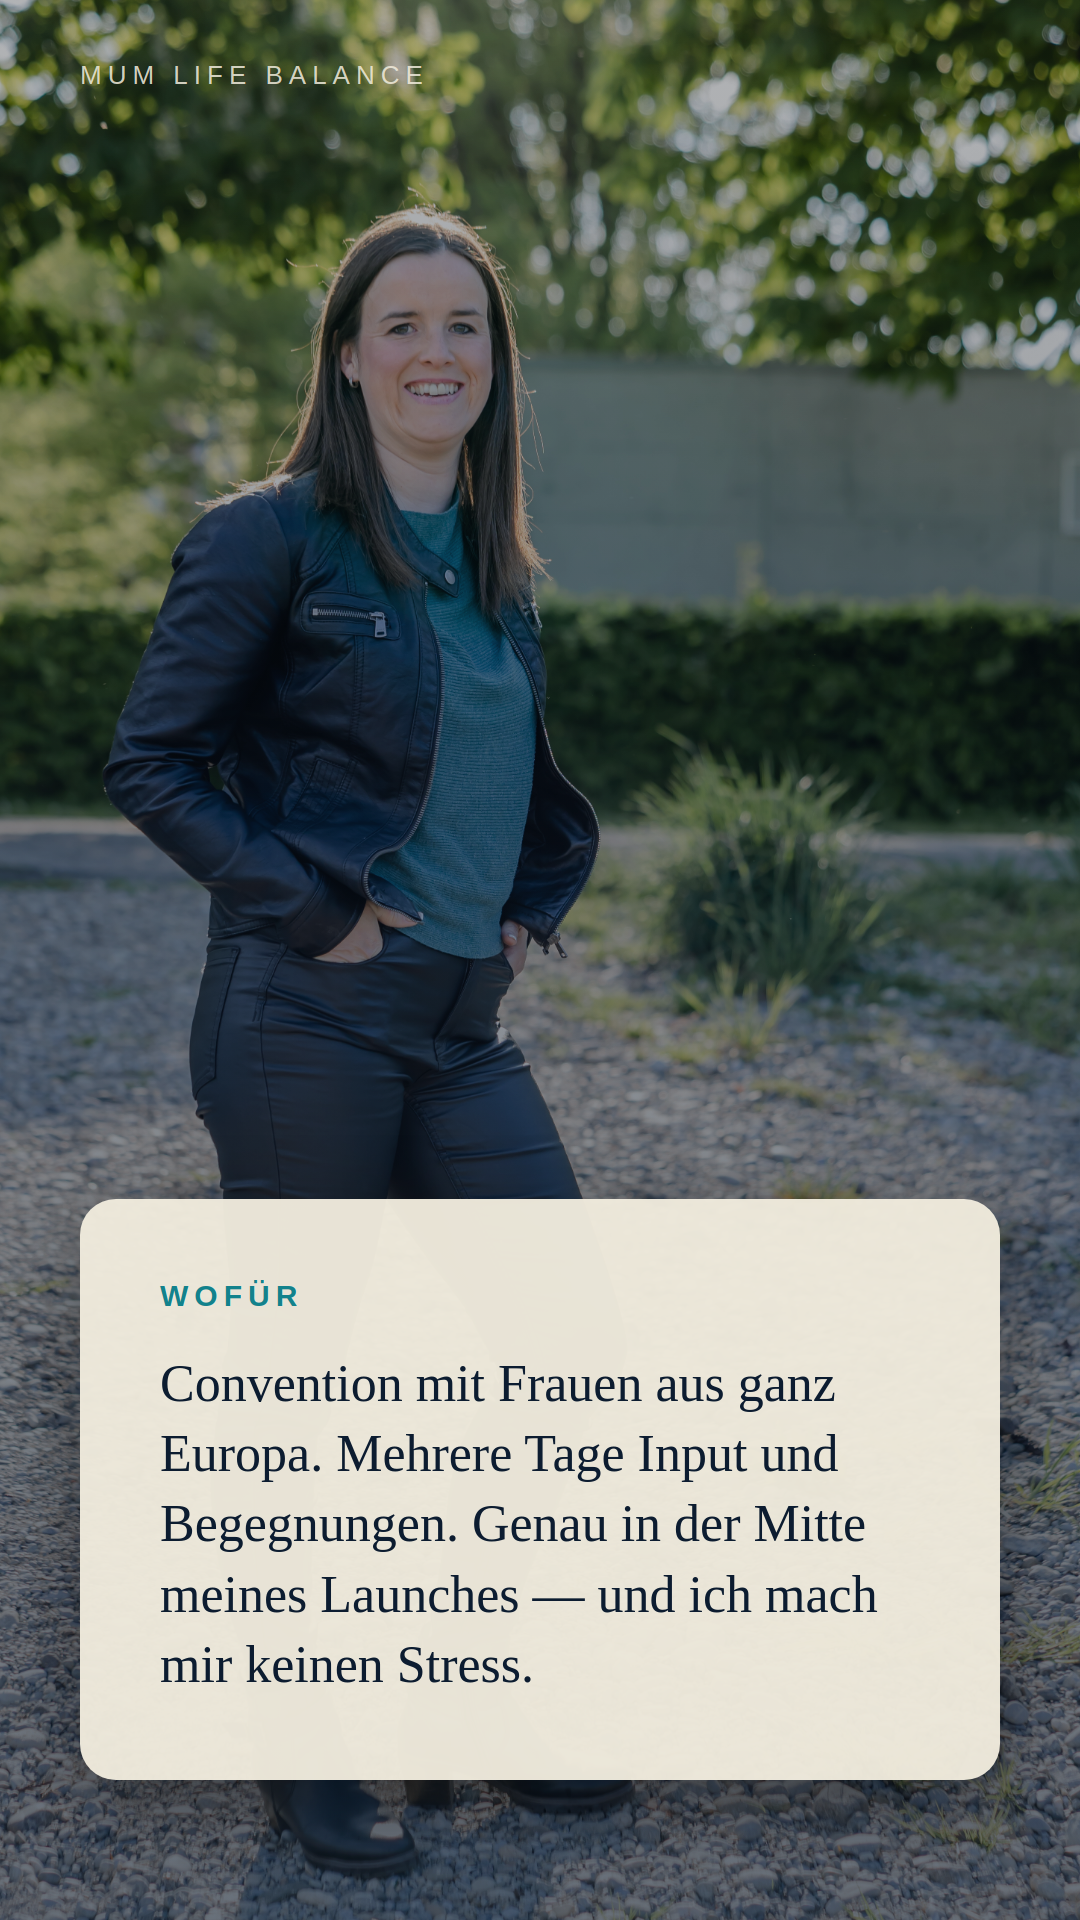
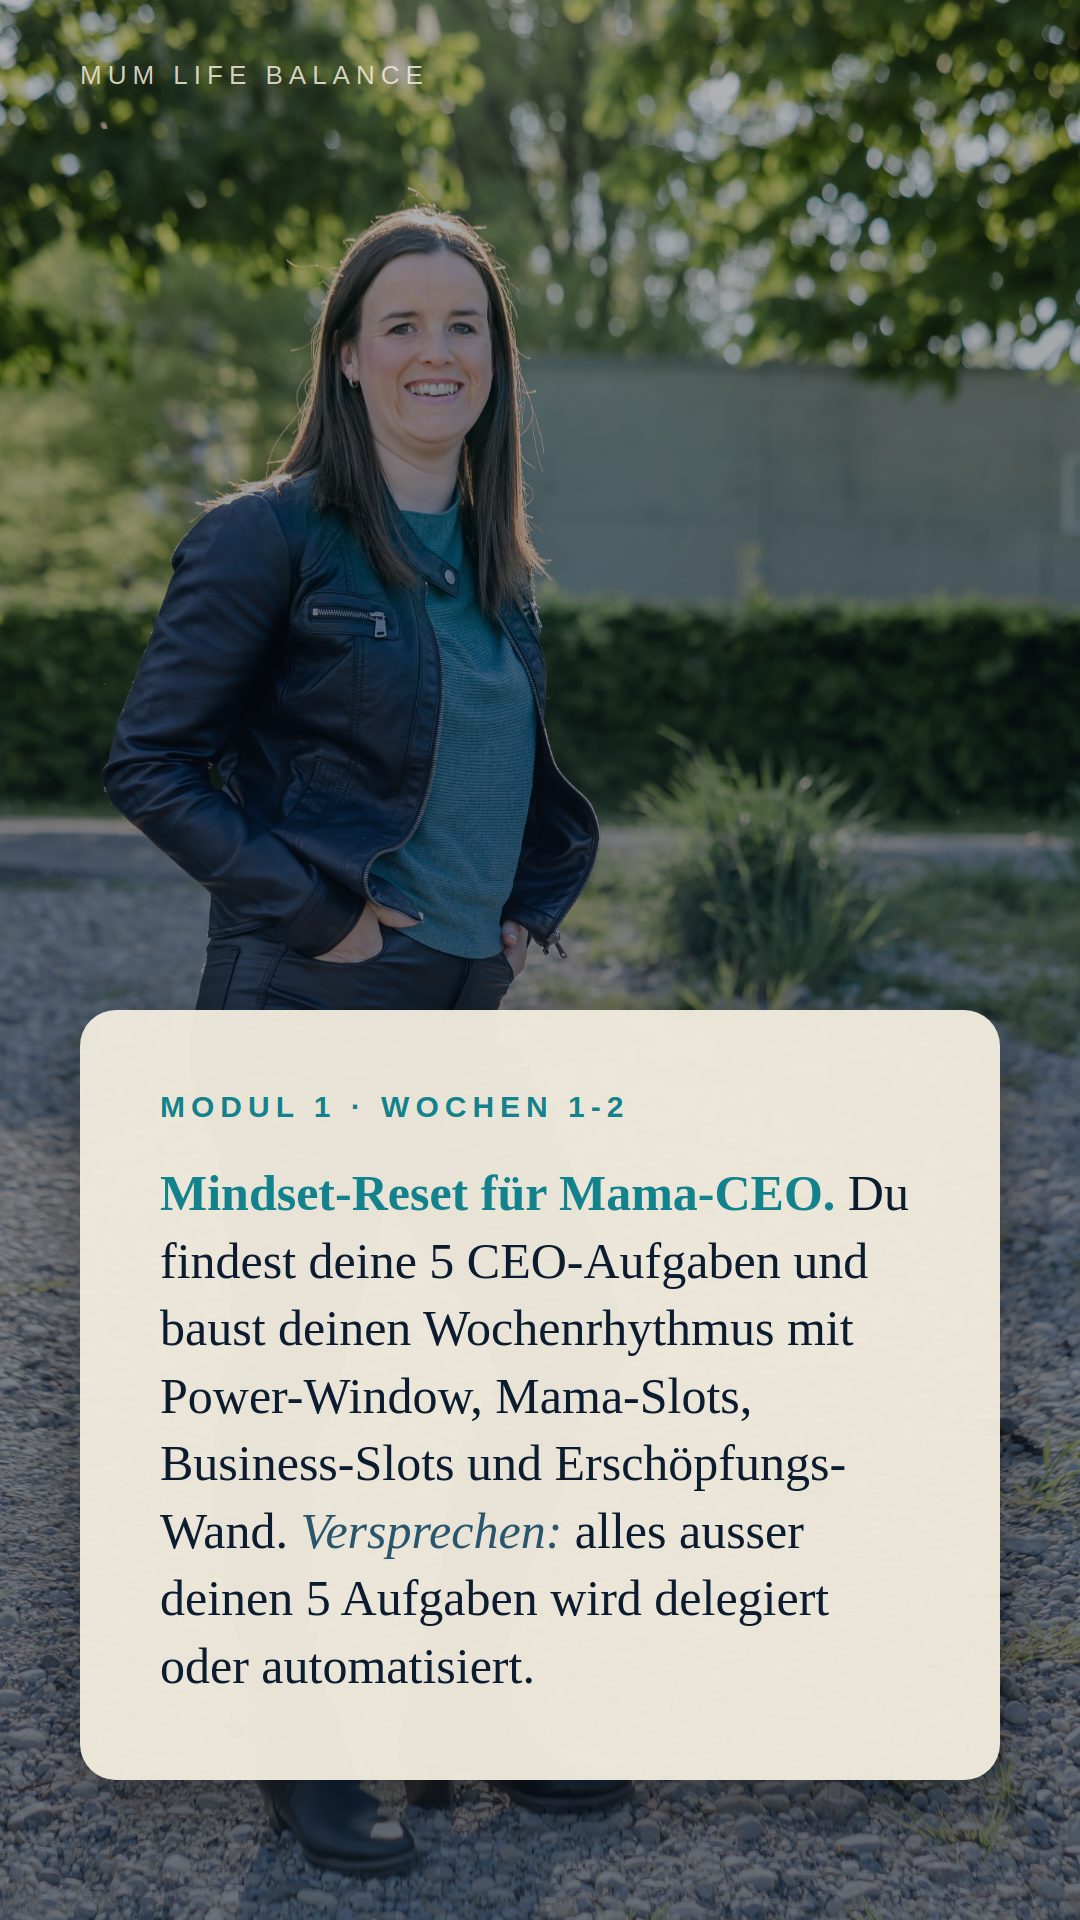
story: Tag 7 v2 — alle 4 Module + Bonus in einer Story erklaert
Patricia-Wunsch: Heute aus Katowice alle Module von Mama-CEO komplett
erklaeren. Eine Slide pro Modul + Bonus + Status + CTA = 8 Slides.

Inhalt 100% aus outputs/produkte/mama-ceo/01-inhaltsverzeichnis.md:
- Slide 1: Hook · „heute alle 4 Module in einer Story"
- Slide 2: Modul 1 · Mindset-Reset (5 CEO-Aufgaben + Wochenrhythmus mit
  Power-Window + Mama-Slots + Business-Slots + Erschoepfungs-Wand)
- Slide 3: Modul 2 · KI-System (Notion-Brain + KI-Mitarbeiter briefen)
- Slide 4: Modul 3 · Akquise (Reel → Keyword → Bot → Mail → Verkauf)
- Slide 5: Modul 4 · Service-KI (FAQ-Bot, Onboarding, E-Mail-Assistent)
- Slide 6: Bonus-Modul Content-KI + 4 Live-Calls + Telegram-Community
- Slide 7: Status + Knappheit (5/15, 333, bis Fr 31.5.)
- Slide 8: CTA Card top + Link-Sticker-Slot

Jedes Modul hat: Wochen-Angabe + Modulname + 2-3 konkrete Inhalte +
Versprechen aus Inhaltsverzeichnis. ZERO Erfindungen.

Changed region(s): [[0.0611, 0.5, 0.9472, 0.875]]

diff --git a/outputs/stories/2026-05-27-salesday-mentoring-mama-ceo-launch-tag-7-katowice/slides.html b/outputs/stories/2026-05-27-salesday-mentoring-mama-ceo-launch-tag-7-katowice/slides.html
@@ -2,7 +2,7 @@
 <html lang="de">
 <head>
 <meta charset="UTF-8">
-<title>Mama-CEO Launch Tag 7 · 27.5.2026 · Katowice · Modul 3 + Fragerunde · 7 Slides</title>
+<title>Mama-CEO Launch Tag 7 · 27.5.2026 · Katowice · Alle Module · 8 Slides</title>
 <link rel="stylesheet" href="../../../scripts/karussell-render/brand-stories.css">
 <style>
   .slide.foto-slide { width:1080px; height:1920px; position:relative; overflow:hidden; background:#0c1c30; page-break-after:always; break-after:page; }
@@ -12,20 +12,19 @@
   .foto-slide .card.top { bottom:auto; top:140px; }
   .foto-slide .card.center { top:50%; bottom:auto; transform:translateY(-50%); }
   .foto-slide .card-eyebrow { font-family:'Source Sans 3',sans-serif; font-size:30px; font-weight:700; letter-spacing:6px; text-transform:uppercase; color:#12828c; margin-bottom:36px; }
-  .foto-slide .card-text { font-family:'Philosopher',serif; font-size:52px; font-weight:400; line-height:1.35; color:#0c1c30; }
+  .foto-slide .card-text { font-family:'Philosopher',serif; font-size:50px; font-weight:400; line-height:1.35; color:#0c1c30; }
   .foto-slide .card-text strong { color:#12828c; font-weight:700; }
   .foto-slide .card-text em { font-style:italic; color:#29556d; }
   .foto-slide .card-text.hook { font-size:62px; line-height:1.25; font-weight:700; }
   .foto-slide .brand-tag { position:absolute; top:60px; left:80px; font-family:'Source Sans 3',sans-serif; font-size:26px; letter-spacing:6px; text-transform:uppercase; color:rgba(241,236,221,0.85); z-index:3; }
   .foto-slide .cta-knappheit { margin-top:36px; font-family:'Source Sans 3',sans-serif; font-size:32px; color:#ad5e1f; font-style:italic; }
-  .foto-slide .sticker-hint { margin-top:28px; font-family:'Source Sans 3',sans-serif; font-size:30px; font-weight:600; color:#ad5e1f; font-style:italic; }
 </style>
 </head>
 <body class="profil-mentoring">
 
 <div class="grid">
 
-  <!-- SLIDE 1: HOOK · Flughafen / Katowice -->
+  <!-- SLIDE 1: HOOK · Modul-Übersicht-Setup -->
   <div class="stage-wrap">
     <div class="stage">
       <div class="slide foto-slide">
@@ -33,17 +32,17 @@
         <div class="dim"></div>
         <div class="brand-tag">Mum Life Balance</div>
         <div class="card">
-          <div class="card-eyebrow">Mittwoch · Flughafen</div>
+          <div class="card-eyebrow">Mittwoch · aus Katowice</div>
           <div class="card-text hook">
-            Ab nach <strong>Katowice</strong>. doTERRA Europa Convention. Und mein Mama-CEO-Launch läuft trotzdem weiter.
+            Heute erklär ich dir alle <strong>vier Module</strong> von Mama-CEO in einer Story. Eine Slide pro Modul. Damit du weisst, wofür du dich entscheidest.
           </div>
         </div>
       </div>
     </div>
-    <div class="frame-label">01 Hook · Flughafen Katowice</div>
+    <div class="frame-label">01 Hook · Modul-Übersicht</div>
   </div>
 
-  <!-- SLIDE 2: SETTING · Convention -->
+  <!-- SLIDE 2: MODUL 1 · Mindset-Reset -->
   <div class="stage-wrap">
     <div class="stage">
       <div class="slide foto-slide">
@@ -51,17 +50,17 @@
         <div class="dim"></div>
         <div class="brand-tag">Mum Life Balance</div>
         <div class="card">
-          <div class="card-eyebrow">Wofür</div>
+          <div class="card-eyebrow">Modul 1 · Wochen 1-2</div>
           <div class="card-text">
-            Convention mit Frauen aus ganz Europa. Mehrere Tage Input und Begegnungen. Genau in der Mitte meines Launches — und ich mach mir keinen Stress.
+            <strong>Mindset-Reset für Mama-CEO.</strong> Du findest deine 5 CEO-Aufgaben und baust deinen Wochenrhythmus mit Power-Window, Mama-Slots, Business-Slots und Erschöpfungs-Wand. <em>Versprechen:</em> alles ausser deinen 5 Aufgaben wird delegiert oder automatisiert.
           </div>
         </div>
       </div>
     </div>
-    <div class="frame-label">02 Setting · Convention</div>
+    <div class="frame-label">02 Modul 1 · Mindset-Reset</div>
   </div>
 
-  <!-- SLIDE 3: WAS LÄUFT IM HINTERGRUND -->
+  <!-- SLIDE 3: MODUL 2 · KI-System -->
   <div class="stage-wrap">
     <div class="stage">
       <div class="slide foto-slide">
@@ -69,17 +68,17 @@
         <div class="dim"></div>
         <div class="brand-tag">Mum Life Balance</div>
         <div class="card">
-          <div class="card-eyebrow">Während ich auf der Convention bin</div>
+          <div class="card-eyebrow">Modul 2 · Wochen 3-4</div>
           <div class="card-text">
-            Anmeldungen kommen rein. Welcome-Mails gehen automatisch raus. Der DM-Bot antwortet auf häufige Fragen. <strong>Drei Systeme, die ohne mich arbeiten.</strong>
+            <strong>Dein KI-System.</strong> Notion als Business-Brain, dein erster KI-Mitarbeiter live. KI briefen wie ein Team-Mitglied — nicht klicken wie ein Tool. <em>Versprechen:</em> dein erster KI-Mitarbeiter arbeitet am Ende von Woche 4.
           </div>
         </div>
       </div>
     </div>
-    <div class="frame-label">03 Systeme · Beweis</div>
+    <div class="frame-label">03 Modul 2 · KI-System</div>
   </div>
 
-  <!-- SLIDE 4: MODUL-3-TEASE · Funnel 101 -->
+  <!-- SLIDE 4: MODUL 3 · Akquise-Funnel -->
   <div class="stage-wrap">
     <div class="stage">
       <div class="slide foto-slide">
@@ -87,17 +86,53 @@
         <div class="dim"></div>
         <div class="brand-tag">Mum Life Balance</div>
         <div class="card">
-          <div class="card-eyebrow">Was du in Modul 3 lernst</div>
+          <div class="card-eyebrow">Modul 3 · Wochen 5-6</div>
           <div class="card-text">
-            <strong>Funnel 101 für Mama-CEOs.</strong> Die 5-Schritt-Kette, die deinen Akquise-Prozess übernimmt: <em>Reel → Keyword → Bot → Mail → Verkauf</em>. Einmal gebaut, läuft sie auch wenn du am Flughafen sitzt.
+            <strong>Akquise-KI: DMs auf Autopilot.</strong> Die 5-Schritt-Kette <em>Reel → Keyword → Bot → Mail → Verkauf</em> — gebaut, getestet, live. <em>Versprechen:</em> dein Funnel läuft, auch wenn du am Flughafen sitzt.
           </div>
         </div>
       </div>
     </div>
-    <div class="frame-label">04 Modul-3-Tease · Funnel-Kette</div>
+    <div class="frame-label">04 Modul 3 · Akquise-Funnel</div>
   </div>
 
-  <!-- SLIDE 5: STATUS + KNAPPHEIT -->
+  <!-- SLIDE 5: MODUL 4 · Service-KI -->
+  <div class="stage-wrap">
+    <div class="stage">
+      <div class="slide foto-slide">
+        <img class="bg" src="fotos/slide-05-status.jpg" alt="">
+        <div class="dim"></div>
+        <div class="brand-tag">Mum Life Balance</div>
+        <div class="card">
+          <div class="card-eyebrow">Modul 4 · Wochen 7-8</div>
+          <div class="card-text">
+            <strong>Service-KI: Skalierung ohne Burn-out.</strong> Kundinnen-Bibliothek-Bot für FAQ, automatisches Onboarding für Kurs-Kundinnen, E-Mail-Assistent für die Inbox. <em>Versprechen:</em> deine Kundinnen werden ohne dich begleitet — du bist Coach im Hintergrund, nicht Sklavin der Inbox.
+          </div>
+        </div>
+      </div>
+    </div>
+    <div class="frame-label">05 Modul 4 · Service-KI</div>
+  </div>
+
+  <!-- SLIDE 6: BONUS · Content-KI + Live-Calls + Community -->
+  <div class="stage-wrap">
+    <div class="stage">
+      <div class="slide foto-slide">
+        <img class="bg" src="fotos/slide-06-fragerunde.jpg" alt="">
+        <div class="dim"></div>
+        <div class="brand-tag">Mum Life Balance</div>
+        <div class="card">
+          <div class="card-eyebrow">Plus · alles dabei</div>
+          <div class="card-text">
+            <strong>Bonus-Modul Content-KI:</strong> Brand-Voice-Doc, Hook-Bot, Karussell-Bot — Content-Wochenpipeline in 30 Min. Dazu <strong>4 Live-Calls</strong> mit mir und die <strong>Telegram-Community</strong> für 8 Wochen Sparring.
+          </div>
+        </div>
+      </div>
+    </div>
+    <div class="frame-label">06 Bonus + Live-Calls + Community</div>
+  </div>
+
+  <!-- SLIDE 7: STATUS + KNAPPHEIT -->
   <div class="stage-wrap">
     <div class="stage">
       <div class="slide foto-slide">
@@ -112,29 +147,10 @@
         </div>
       </div>
     </div>
-    <div class="frame-label">05 Status + Knappheit</div>
+    <div class="frame-label">07 Status + Knappheit</div>
   </div>
 
-  <!-- SLIDE 6: FRAGERUNDE (Antwort-Sticker-Slot) -->
-  <div class="stage-wrap">
-    <div class="stage">
-      <div class="slide foto-slide">
-        <img class="bg" src="fotos/slide-06-fragerunde.jpg" alt="">
-        <div class="dim"></div>
-        <div class="brand-tag">Mum Life Balance</div>
-        <div class="card center" style="left:120px; right:120px; padding:64px 64px;">
-          <div class="card-eyebrow">Frag mich</div>
-          <div class="card-text" style="font-size:50px;">
-            Was beschäftigt dich gerade an <strong>Mama-CEO</strong>? Eine Frage, eine Unsicherheit, ein <em>„könnte ich sowas auch?"</em> — schreib's hier rein. Ich antworte heute Abend aus Katowice.
-          </div>
-          <div class="sticker-hint">↓ Antwort-Sticker hier drüberlegen</div>
-        </div>
-      </div>
-    </div>
-    <div class="frame-label">06 Fragerunde · Antwort-Sticker-Slot</div>
-  </div>
-
-  <!-- SLIDE 7: CTA (Card top, Link-Sticker-Slot unten) -->
+  <!-- SLIDE 8: CTA (Card top, Link-Sticker-Slot unten) -->
   <div class="stage-wrap">
     <div class="stage">
       <div class="slide foto-slide">
@@ -149,10 +165,11 @@
         </div>
       </div>
     </div>
-    <div class="frame-label">07 CTA · Link-Sticker-Slot unten</div>
+    <div class="frame-label">08 CTA · Link-Sticker-Slot unten</div>
   </div>
 
 </div>
 
 </body>
 </html>
+
